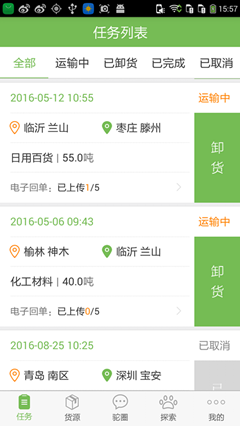
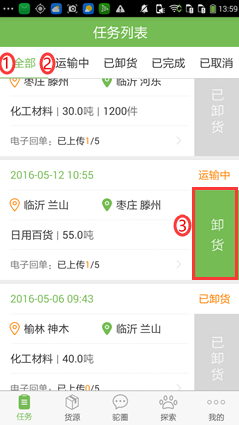
Creates assets/卸货.png
Auto commit by GitBook Editor

diff --git a/司机/任务/卸货.md b/司机/任务/卸货.md
@@ -1,0 +1,14 @@
+##### 卸货
+
+##### 卸货为货物运送到目的地以后，需要点击卸货按钮完成运单。
+
+##### ①全部会存在运输中的订单可以点击卸货按钮
+
+##### ②运输中的订单可以点击卸货按钮
+
+##### ③到达目的地卸货完成或开始卸货可以点击卸货按钮完成订单
+
+![](/assets/卸货.png)
+
+
+

diff --git a/SUMMARY.md b/SUMMARY.md
@@ -9,7 +9,6 @@
     * [已卸货](司机/任务/已卸货.md)
     * [已完成](司机/任务/已完成.md)
     * [已取消](司机/任务/已取消.md)
+    * [卸货](司机/任务/卸货.md)
+    * [电子回单](司机/任务/电子回单.md)
 * [联系我们](司机/联系我们.md)
-
-
-
